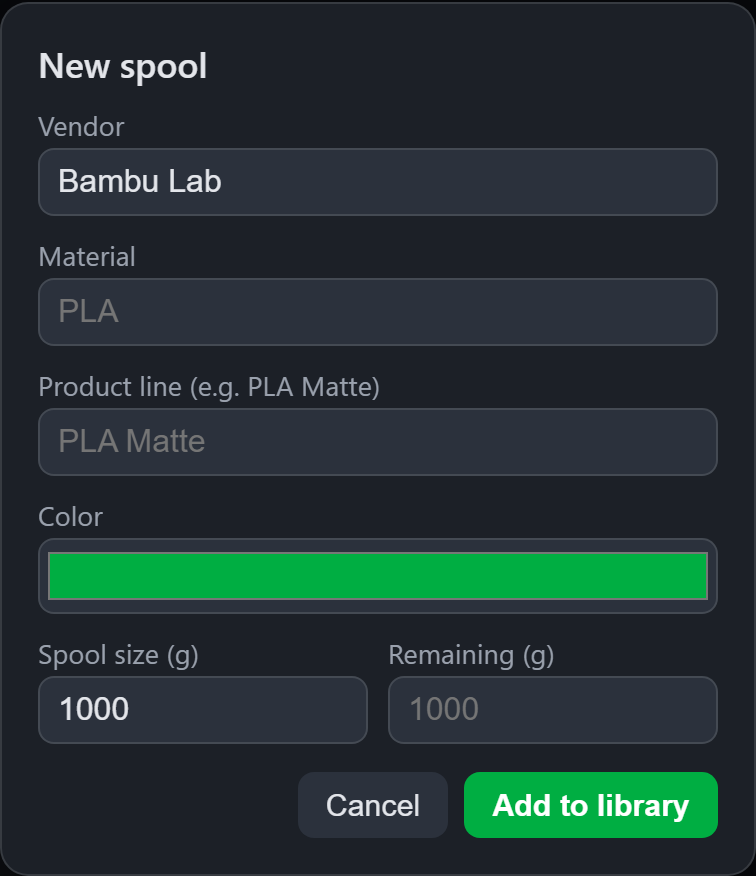
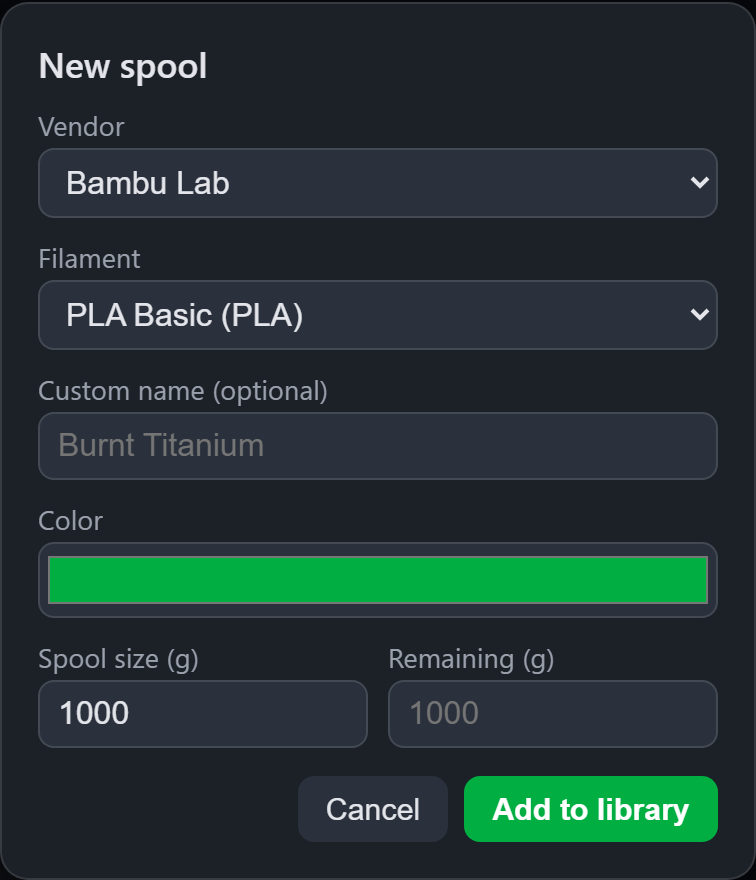
v0.8.0: catalog dropdowns in the add dialog; map displayName
- Verified against the live API: the cloud only accepts vendor/product
  combos from its official catalog (6 vendors, fixed products with
  filamentId; free text is rejected with HTTP 400), and custom spool
  names from Studio/Handy live in a separate displayName field.
- New get_catalog action (SupportsResponse.ONLY, cached 1 h) feeds the
  add dialog: vendor and filament dropdowns like in the Handy app, plus
  an optional custom-name field; falls back to free-text inputs if the
  catalog cannot be fetched.
- displayName is now mapped everywhere: device/sensor names and card
  rows prefer it, it is part of the combine key, create_spool accepts
  display_name.

diff --git a/custom_components/bambu_filaments/www/bambu-filaments-card.js b/custom_components/bambu_filaments/www/bambu-filaments-card.js
@@ -16,6 +16,9 @@ const STR = {
     d_vendor: "Vendor",
     d_material: "Material",
     d_name: "Product line (e.g. PLA Matte)",
+    d_product: "Filament",
+    d_display: "Custom name (optional)",
+    d_loading: "Loading catalog…",
     d_color: "Color",
     d_total: "Spool size (g)",
     d_remaining: "Remaining (g)",
@@ -59,6 +62,9 @@ const STR = {
     d_vendor: "Hersteller",
     d_material: "Material",
     d_name: "Sorte (z. B. PLA Matte)",
+    d_product: "Filament",
+    d_display: "Eigener Name (optional)",
+    d_loading: "Katalog wird geladen…",
     d_color: "Farbe",
     d_total: "Spulengröße (g)",
     d_remaining: "Restgewicht (g)",
@@ -238,7 +244,8 @@ class BambuFilamentsCard extends HTMLElement {
     const map = new Map();
     for (const s of spools) {
       const colors = (s.colors && s.colors.length ? s.colors : [s.color]).filter(Boolean);
-      const key = [s.vendor, s.name || s.material, ...colors.map(normHex).sort()].join("|");
+      const key = [s.vendor, s.name || s.material, s.display_name || "",
+        ...colors.map(normHex).sort()].join("|");
       const agg = map.get(key);
       if (!agg) {
         map.set(key, { ...s, _count: 1, _locations: [] });
@@ -347,14 +354,25 @@ class BambuFilamentsCard extends HTMLElement {
     );
   }
 
-  _openDialog(t, spools) {
+  async _openDialog(t, spools) {
     if (this._dialogHost) return;
-    const vendors = [...new Set(["Bambu Lab", ...spools.map((s) => s.vendor).filter(Boolean)])];
-    const materials = [...new Set([
-      ...spools.map((s) => s.material).filter(Boolean),
-      "PLA", "PETG", "ABS", "ASA", "TPU", "PC", "PA", "PVA", "PLA-CF", "PETG-CF",
-    ])];
-    const opts = (arr) => arr.map((v) => `<option value="${esc(v)}"></option>`).join("");
+    // The cloud only accepts vendor/product combos from its official catalog
+    // (free text is rejected with HTTP 400), so the dialog uses dropdowns fed
+    // by the get_catalog action - exactly like the Handy app.
+    let catalog = [];
+    try {
+      const resp = await this._hass.callService(
+        "bambu_filaments", "get_catalog", {}, undefined, false, true
+      );
+      catalog = resp?.response?.filaments || [];
+    } catch (e) {
+      catalog = [];
+    }
+    const vendors = [...new Set(catalog.map((f) => f.vendor).filter(Boolean))];
+    const productOpts = (vendor, selected) => catalog
+      .filter((f) => f.vendor === vendor)
+      .map((f, i) => `<option value="${esc(f.filament_id)}" ${f.filament_id === selected ? "selected" : ""}>${esc(f.name)}${f.name === f.material ? "" : ` (${esc(f.material)})`}</option>`)
+      .join("");
 
     // The dialog lives on document.body: HA's dashboard containers use CSS
     // transforms, which turn position:fixed inside a card into card-relative
@@ -377,10 +395,11 @@ class BambuFilamentsCard extends HTMLElement {
         label { display:flex; flex-direction:column; gap:3px; font-size:0.85em;
                 color:var(--secondary-text-color, #9aa1ad); min-width:0; }
         input { box-sizing:border-box; width:100%; }
-        input[type=text], input[type=number] {
+        input[type=text], input[type=number], select {
           padding:7px 9px; border:1px solid var(--divider-color, rgba(255,255,255,.12));
           border-radius:8px; background:var(--secondary-background-color, #2b313c);
           color:var(--primary-text-color, #e3e5ea); font-size:1rem; }
+        select { box-sizing:border-box; width:100%; }
         input[type=color] { width:100%; height:38px; padding:2px; border-radius:8px;
           border:1px solid var(--divider-color, rgba(255,255,255,.12));
           background:var(--secondary-background-color, #2b313c); }
@@ -397,13 +416,17 @@ class BambuFilamentsCard extends HTMLElement {
       <div class="overlay">
         <div class="dlg">
           <div class="dtitle">${t.d_title}</div>
+          ${catalog.length ? `
           <label>${t.d_vendor}
-            <input id="f-vendor" type="text" value="Bambu Lab" list="dl-vendors"/>
-            <datalist id="dl-vendors">${opts(vendors)}</datalist></label>
-          <label>${t.d_material}
-            <input id="f-material" type="text" list="dl-mats" placeholder="PLA"/>
-            <datalist id="dl-mats">${opts(materials)}</datalist></label>
+            <select id="f-vendor">${vendors.map((v) => `<option ${v === "Bambu Lab" ? "selected" : ""}>${esc(v)}</option>`).join("")}</select></label>
+          <label>${t.d_product}
+            <select id="f-product">${productOpts("Bambu Lab")}</select></label>
+          ` : `
+          <label>${t.d_vendor}<input id="f-vendor" type="text" value="Bambu Lab"/></label>
+          <label>${t.d_material}<input id="f-material" type="text" placeholder="PLA"/></label>
           <label>${t.d_name}<input id="f-name" type="text" placeholder="PLA Matte"/></label>
+          `}
+          <label>${t.d_display}<input id="f-display" type="text" placeholder="Burnt Titanium"/></label>
           <label class="colorlab">${t.d_color}<input id="f-color" type="color" value="#00ae42"/></label>
           <div class="cols2">
             <label>${t.d_total}<input id="f-total" type="number" min="1" value="1000"/></label>
@@ -426,25 +449,41 @@ class BambuFilamentsCard extends HTMLElement {
     };
     overlay.addEventListener("click", (ev) => { if (ev.target === overlay) close(); });
     root.querySelector(".dlg-cancel").addEventListener("click", close);
+    if (catalog.length) {
+      root.querySelector("#f-vendor").addEventListener("change", (ev) => {
+        root.querySelector("#f-product").innerHTML = productOpts(ev.target.value);
+      });
+    }
     root.querySelector(".dlg-save").addEventListener("click", async () => {
-      const val = (id) => root.querySelector(`#${id}`).value.trim();
+      const val = (id) => (root.querySelector(`#${id}`)?.value || "").trim();
       const err = root.querySelector(".derr");
-      const material = val("f-material");
-      const name = val("f-name");
-      if (!material || !name) {
-        err.hidden = false;
-        err.textContent = t.d_error;
-        return;
-      }
       const total = Number(val("f-total")) || 1000;
       const data = {
         vendor: val("f-vendor") || "Bambu Lab",
-        material,
-        name,
         color: val("f-color"),
         total_g: total,
         remaining_g: val("f-remaining") === "" ? total : Number(val("f-remaining")),
       };
+      if (catalog.length) {
+        const entry = catalog.find((f) => f.filament_id === val("f-product"));
+        if (!entry) {
+          err.hidden = false;
+          err.textContent = t.d_error;
+          return;
+        }
+        data.material = entry.material;
+        data.name = entry.name;
+        data.filament_id = entry.filament_id;
+      } else {
+        data.material = val("f-material");
+        data.name = val("f-name");
+        if (!data.material || !data.name) {
+          err.hidden = false;
+          err.textContent = t.d_error;
+          return;
+        }
+      }
+      if (val("f-display")) data.display_name = val("f-display");
       const btn = root.querySelector(".dlg-save");
       btn.disabled = true;
       btn.textContent = t.d_saving;
@@ -467,9 +506,10 @@ class BambuFilamentsCard extends HTMLElement {
       : pct < c.low_threshold ? "var(--error-color, #e74c3c)"
       : pct < c.warn_threshold ? "#f39c12"
       : "#00ae42";
-    const titleLine = c.group_by === "line"
+    const custom = (s.display_name || "").trim();
+    const titleLine = custom || (c.group_by === "line"
       ? (s.color_name || normHex(s.color).slice(0, 7) || s.name || "?")
-      : `${s.name || s.material || "?"} ${s.color_name || normHex(s.color).slice(0, 7)}`.trim();
+      : `${s.name || s.material || "?"} ${s.color_name || normHex(s.color).slice(0, 7)}`.trim());
     const combined = (s._count || 1) > 1;
     // The color name is already part of the title in every grouping mode -
     // the meta line only carries code/hex/location/note.

diff --git a/custom_components/bambu_filaments/services.py b/custom_components/bambu_filaments/services.py
@@ -2,11 +2,12 @@
 
 from __future__ import annotations
 
+import time
 from typing import Any
 
 import voluptuous as vol
 
-from homeassistant.core import HomeAssistant, ServiceCall
+from homeassistant.core import HomeAssistant, ServiceCall, SupportsResponse
 from homeassistant.exceptions import HomeAssistantError
 import homeassistant.helpers.config_validation as cv
 
@@ -19,6 +20,7 @@ SERVICE_SET_REMAINING = "set_remaining"
 SERVICE_SET_NOTE = "set_note"
 SERVICE_CREATE_SPOOL = "create_spool"
 SERVICE_DELETE_SPOOL = "delete_spool"
+SERVICE_GET_CATALOG = "get_catalog"
 
 SET_REMAINING_SCHEMA = vol.Schema(
     {
@@ -43,6 +45,7 @@ CREATE_SPOOL_SCHEMA = vol.Schema(
         ),
         vol.Optional("remaining_g"): vol.All(vol.Coerce(int), vol.Range(min=0, max=20000)),
         vol.Optional("filament_id"): cv.string,
+        vol.Optional("display_name"): cv.string,
     }
 )
 DELETE_SPOOL_SCHEMA = vol.Schema({vol.Required("spool_id"): cv.positive_int})
@@ -139,11 +142,35 @@ def async_register_services(hass: HomeAssistant) -> None:
                 filament_id = None
         if filament_id:
             payload["filamentId"] = filament_id
+        if display_name := call.data.get("display_name"):
+            payload["displayName"] = display_name
         try:
             await hass.async_add_executor_job(coordinator.client.create_spool, payload)
         except BambuCloudError as err:
             raise HomeAssistantError(f"Bambu cloud rejected the new spool: {err}") from err
         await coordinator.async_request_refresh()
+
+    async def handle_get_catalog(call: ServiceCall) -> dict[str, Any]:
+        """Canonical vendor/product combos the cloud accepts (cached 1 h)."""
+        coordinator = _first_coordinator()
+        cache = getattr(coordinator, "catalog_cache", None)
+        if not cache or time.time() - getattr(coordinator, "catalog_cached_at", 0) > 3600:
+            try:
+                raw = await hass.async_add_executor_job(coordinator.client.get_catalog)
+            except BambuCloudError as err:
+                raise HomeAssistantError(f"Fetching the filament catalog failed: {err}") from err
+            cache = [
+                {
+                    "vendor": e.get("filamentVendor"),
+                    "material": e.get("filamentType"),
+                    "name": e.get("filamentName"),
+                    "filament_id": e.get("filamentId"),
+                }
+                for e in raw.get("filamentSettings") or []
+            ]
+            coordinator.catalog_cache = cache
+            coordinator.catalog_cached_at = time.time()
+        return {"filaments": cache}
 
     async def handle_delete_spool(call: ServiceCall) -> None:
         coordinator, _spool = _find_spool(hass, call.data["spool_id"])
@@ -167,4 +194,10 @@ def async_register_services(hass: HomeAssistant) -> None:
     )
     hass.services.async_register(
         DOMAIN, SERVICE_DELETE_SPOOL, handle_delete_spool, schema=DELETE_SPOOL_SCHEMA
+    )
+    hass.services.async_register(
+        DOMAIN,
+        SERVICE_GET_CATALOG,
+        handle_get_catalog,
+        supports_response=SupportsResponse.ONLY,
     )

diff --git a/custom_components/bambu_filaments/sensor.py b/custom_components/bambu_filaments/sensor.py
@@ -69,6 +69,7 @@ def spool_attributes(
         "vendor": spool.get("filamentVendor"),
         "material": spool.get("filamentType"),
         "name": spool.get("filamentName"),
+        "display_name": spool.get("displayName"),
         "filament_id": spool.get("filamentId"),
         "color": spool.get("color"),
         "colors": spool.get("colors"),
@@ -90,6 +91,9 @@ def spool_attributes(
 def _spool_display_name(
     spool: dict[str, Any], coordinator: BambuFilamentsCoordinator
 ) -> str:
+    # A user-chosen name from Studio/Handy ("displayName") wins outright.
+    if custom := (spool.get("displayName") or "").strip():
+        return custom
     base = spool.get("filamentName") or spool.get("filamentType") or "Spool"
     color_name, _ = coordinator.color_lookup(spool)
     if color_name:
